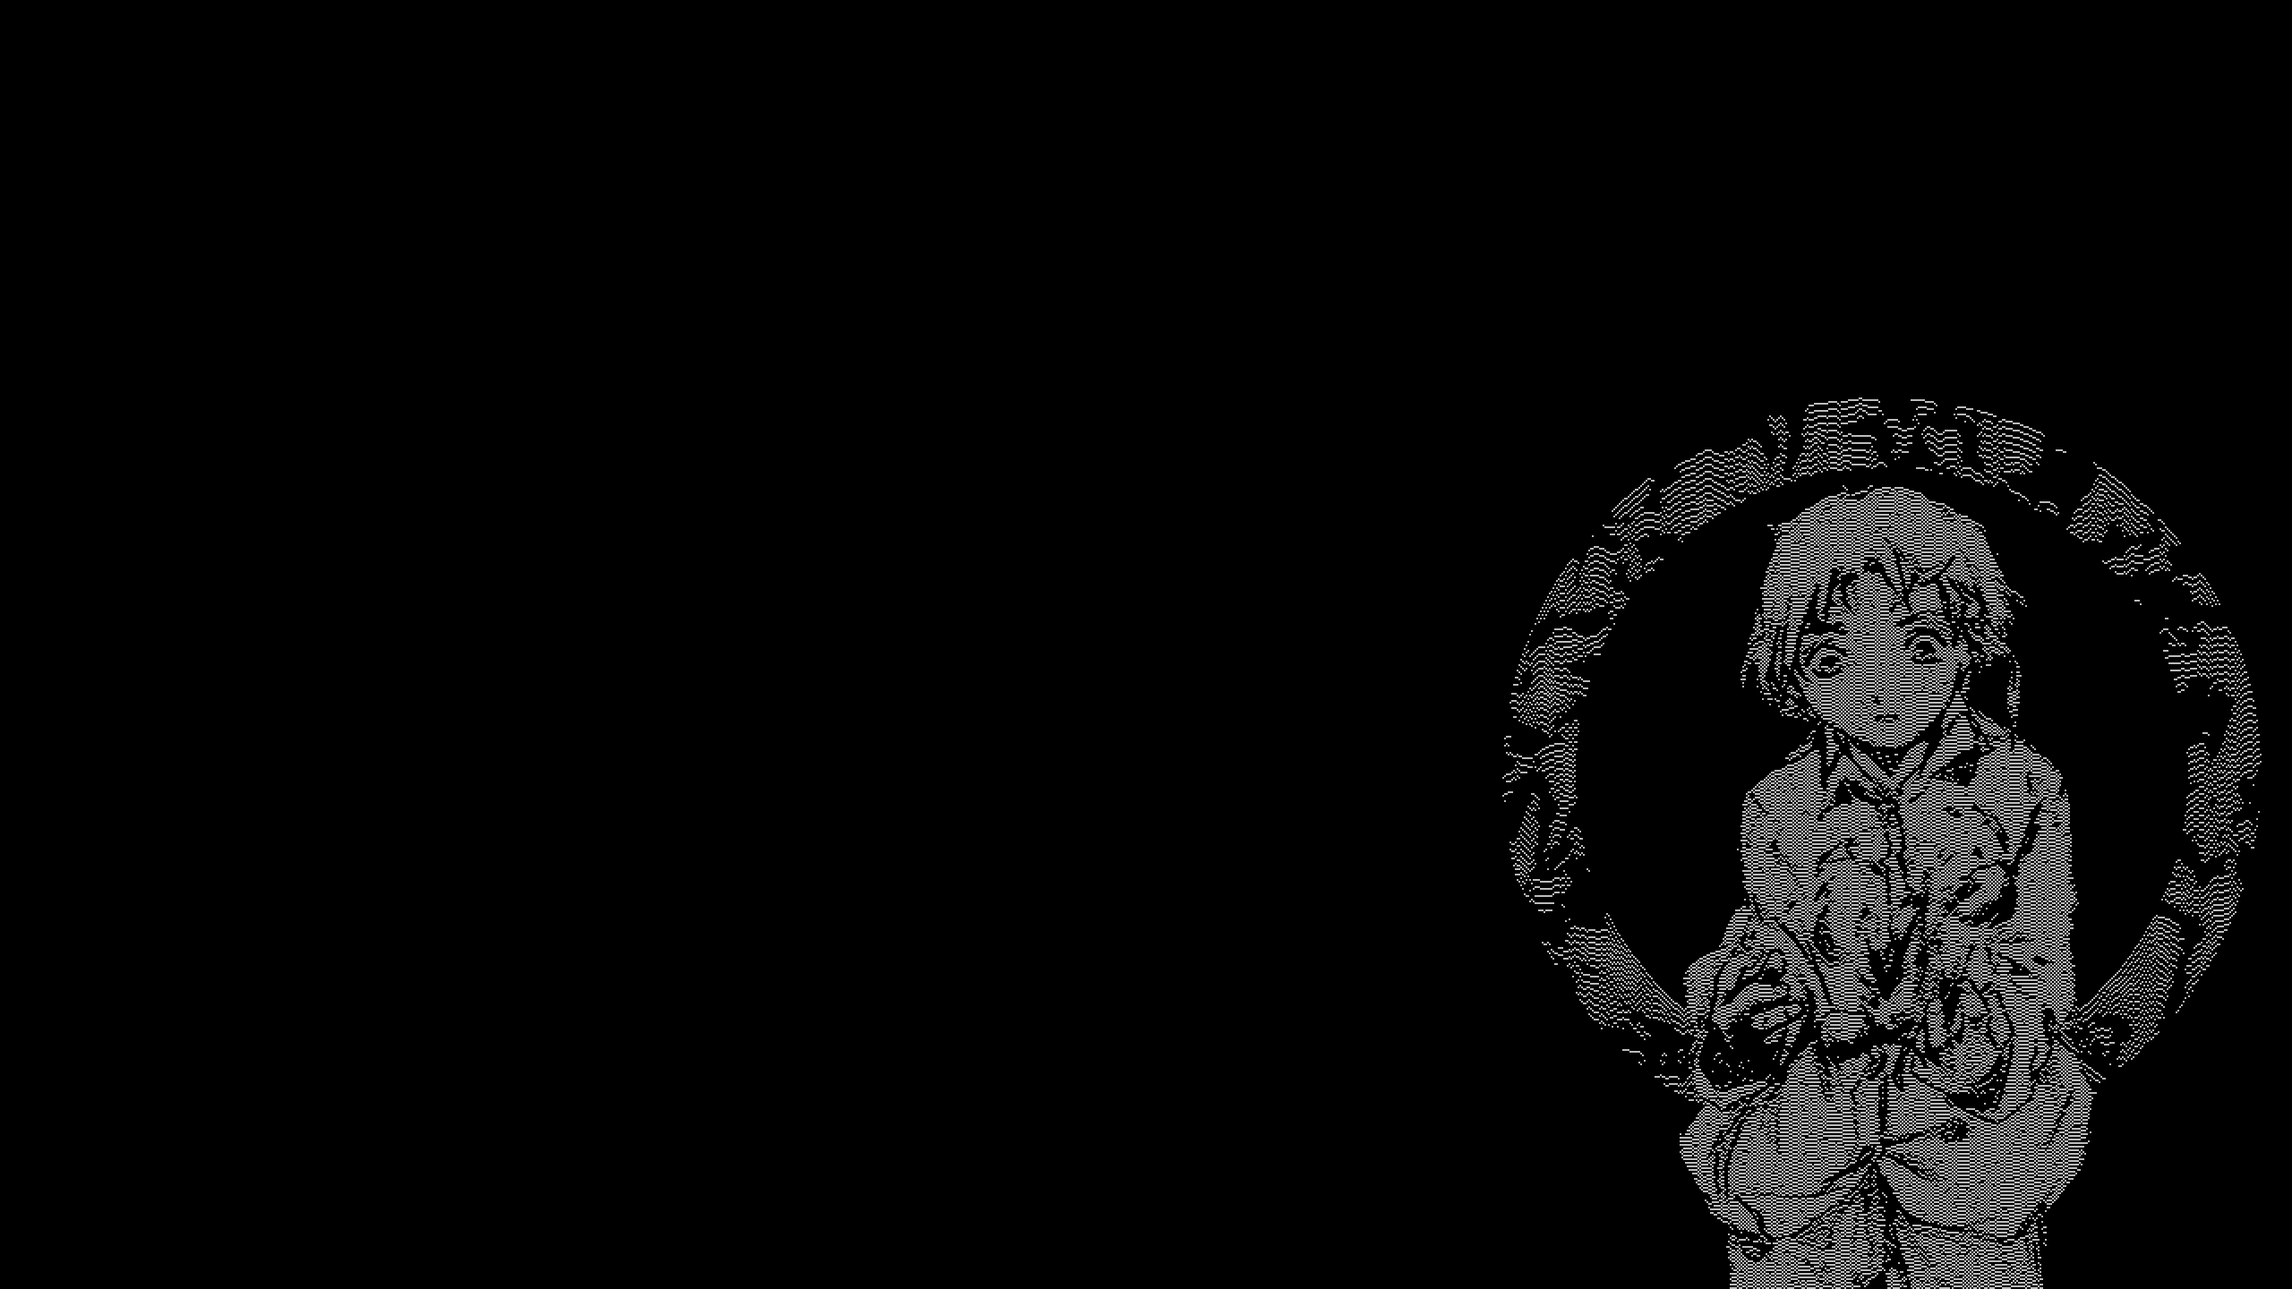
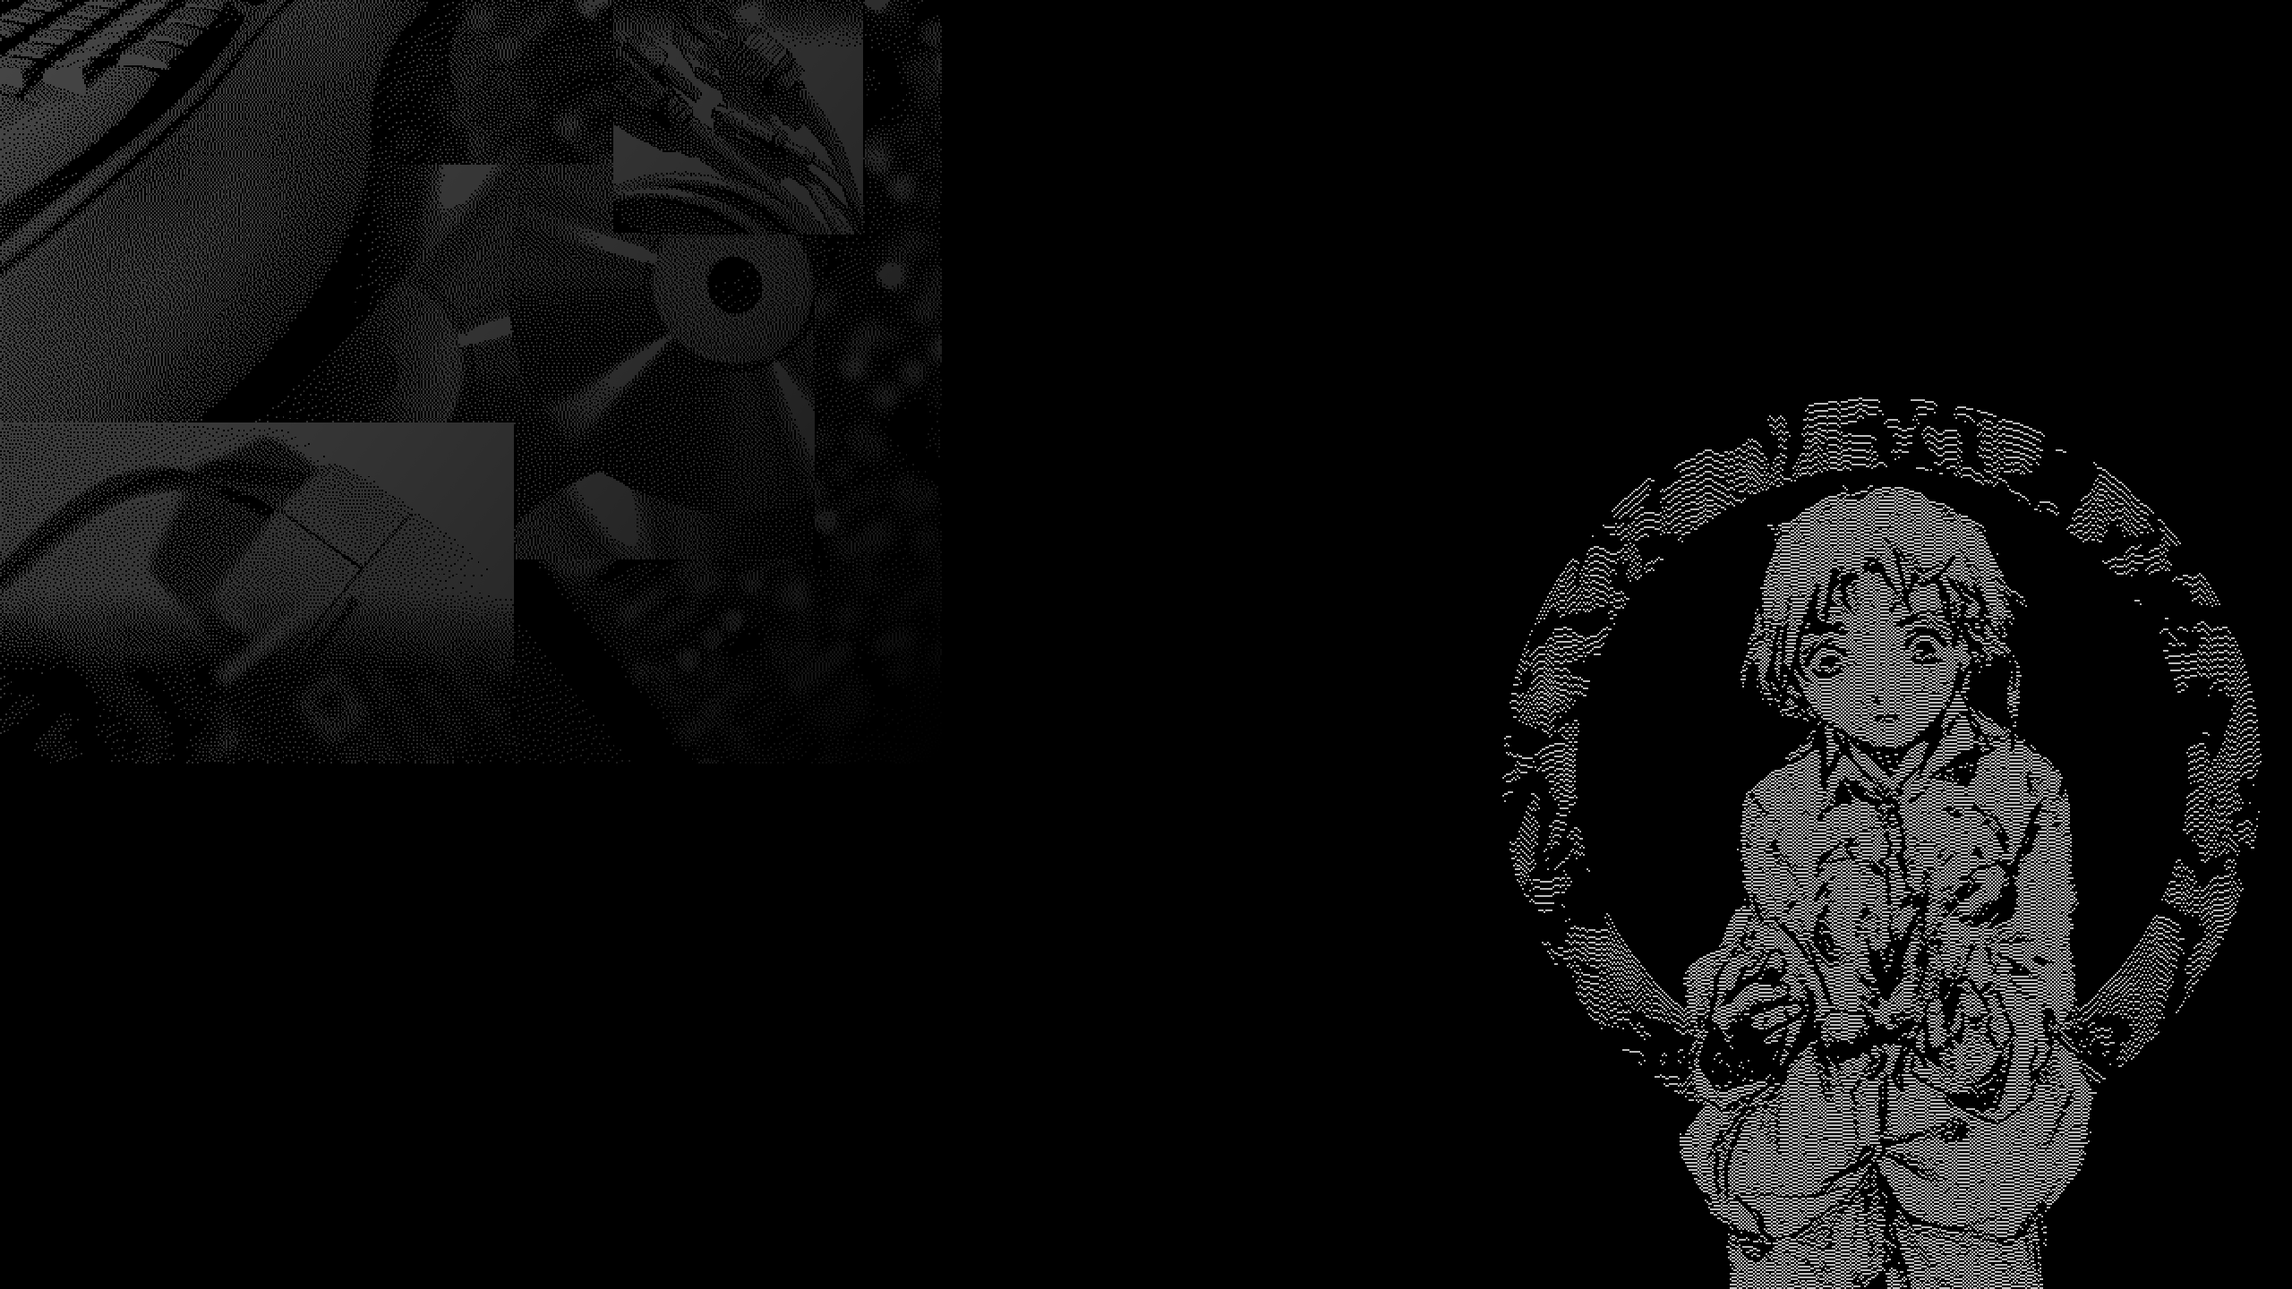
some changes...

Changed region(s): [[0.0, 0.0, 0.4062, 0.5938]]

diff --git a/others/links.html b/others/links.html
@@ -3,45 +3,37 @@
 <head>
 <title>HexyHack's website</title>
 <meta charset="UTF-8">
-<meta http-equiv="X-UA-Compatible" >
-<link href="../logopfp.png" rel="shortcut icon" type="image/x-icon">
+<meta http-equiv="X-UA-Compatible">
+<link href="logopfp.png" rel="shortcut icon" type="image/x-icon">
 <meta name="viewport" content="width=device-width, initial-scale=1">
 <link rel="stylesheet" href="../style.css" type="text/css">
 </head>
 <body>  
 <div class="main">
-    <img style="border: 2px double; text-align: left" src="../logopfp.png"  width= 100px>   
         <div style="height: 30px">
             <span class="r">Hex</span><span class="g">yH</span><span class="b">ack</span>
         </div>
-    <div style="height: 75px">
+    <div style="height: 50px">
         <table class="menu" > 
             <tr> 
                 <td><a href="../index.html">Home</a></td>
                 <td><a href="../entries/list_entries.html">Blog</a></td> 
-                <td><a href="links.html">Useful Links</a></td> 
-                <td><a href="projects.html">Projects</a></td>             </tr>
+                <td><a href="links.html">Links</a></td> 
+                <td><a href="projects.html">Projects</a></td> 
+                <td><a href="aboutme.html">About</a></td>
+            </tr>
         </table>
         <hr width="150px">
 </div>
 </div>
-<a href="xp.html"><img src="img/xp.png" width="15px"> Windows XP Software List</a>
-<div style="height: 22px"></div>
-<hr width="150px">
+<div style="height: 10px"></div>
+Some random stuff I found on web, enjoy ;p <br> <br>
 <a href="https://www.youtube.com/playlist?list=PLVXAMdNCJZDgyrvDC2kw3vCSEMvAQVbBN">> Renders in Shapes Wallpaper Tutorials - YT</a> <br>
-<!-- <a href="https://konachan.net/">> Konachan (G) - Anime wallpapers imageboard</a> <br> https://wallhaven.cc/-->
-<!-- https://archive.org/details/adobe-flash-player-projector -->
 <a href="https://github.com/bogd/esp32-morphing-clock">> ESP32 Morphing Clock - Github</a> <br>
-<a href="https://mirrors.dtops.co/ISO/MacOS/">> Drive full of MacOS DMGs with Clover bootloader included</a> <br>
-<a href="https://github.com/grassmunk/Platinum9">> Nice Mac OS 9 theme for XFCE - Github</a> <br>
+<a href="https://mirrors.dtops.co/ISO/MacOS/">> Drive full of MacOS DMGs with Clover included</a> <br>
 <a href="https://archive.org/details/@karol_437">> Archive.org account with many gaming magazine disks </a> <br>
 <a href="https://winraid.level1techs.com/t/solution-win-7-win8-1-x64-ryzen-apu-video-driver/34203">> Unofficial Ryzen APU 2xxx drivers for Win7 </a> <br>
 <a href="https://forums.macrumors.com/threads/the-tiger-thread-mac-os-x-10-4.2134451/">> Useful thread about Mac OS X Tiger and software for that </a> <br>
 <a href="https://github.com/otya128/winevdm">> WineVDM - Tool for running 16-bit Windows applications </a> <br>
-<a href="https://github.com/blueboxd/chromium-legacy">> Chromium-legacy - Latest Chrome for unsupported MacOS versions </a> <br>
 <a href="https://www.xpforums.com/threads/guide-to-enable-windows-xp-to-use-more-than-3-25gb-ram.932418/">> Make Windows XP to use more than 3.25GB of RAM </a> <br>
-<a href="https://www.youtube.com/watch?v=53LxDO3I2fg">> How to install Discord (web-based) on Windows XP - Tutorial</a> <br>
-<a href="https://anonfiles.com/x8V56a6czb/uBar_4_2_0_dmg">> Windows Taskbar app for MacOS</a> <br>
-<a href="https://anonfiles.com/Eco5r170z6/MinecraftSP_jar">> AnjoCaido Launcher - Jar version</a> <br>
-<a href="gta-3-car-pack.txt">> GTA3 Car Mods list (in GTA3 style)</a> <br>
 <a href="https://superuser.com/questions/184136/winxp-expand-a-wallpaper-without-affecting-its-aspect-ratio/184138#184138">> How to expand a wallpaper without disorting its aspect ratio on Windows XP</a> <br>

diff --git a/others/xp.html b/others/xp.html
@@ -3,25 +3,24 @@
 <head>
 <title>HexyHack's website</title>
 <meta charset="UTF-8">
-<meta http-equiv="X-UA-Compatible" >
-<link href="../logopfp.png" rel="shortcut icon" type="image/x-icon">
+<meta http-equiv="X-UA-Compatible">
+<link href="logopfp.png" rel="shortcut icon" type="image/x-icon">
 <meta name="viewport" content="width=device-width, initial-scale=1">
 <link rel="stylesheet" href="../style.css" type="text/css">
 </head>
 <body>  
 <div class="main">
-    <img style="border: 2px double; text-align: left" src="img/windows10-windows.gif"  width= 100px height= 100px>   
         <div style="height: 30px">
             <span class="r">Hex</span><span class="g">yH</span><span class="b">ack</span>
         </div>
-    <div style="height: 75px">
+    <div style="height: 50px">
         <table class="menu" > 
             <tr> 
                 <td><a href="../index.html">Home</a></td>
                 <td><a href="../entries/list_entries.html">Blog</a></td> 
-                <td><a href="links.html">Useful Links</a></td> 
+                <td><a href="links.html">Links</a></td> 
                 <td><a href="projects.html">Projects</a></td> 
-                <td><a href="thinkpads.html">ThinkPads</a></td>
+                <td><a href="aboutme.html">About</a></td>
             </tr>
         </table>
         <hr width="150px">
@@ -29,9 +28,8 @@
 </div>
 <a href="links.html"> < Back</a>
 <h1><img src="img/xp.png" width="30px"> Windows XP Software List</h1> <br>
-(actual for 08.2023) <br><br>
 <div style="width: 550px">
-The links uploaded here are providing to real application developer sites or to archived versions of them, so I'm not trying to provide bs here. <br> <br> Only 360Chrome and Tor Browser are uploaded to external hosting, but I've provided links to original threads about these apps. <br> <br> I don't think I gonna update this list frequently since there is much, much bigger one. Also I created this for myself kinda, so if I will fine some interesting apps I will upload here. Also maybe I will add some app descriptions in the future. <br>
+The links uploaded here are providing to real application developer sites or to archived versions of them. Only 360Chrome and Tor Browser are uploaded to external hosting, but I've provided links to original threads about these apps. <br> <br> I don't think I gonna update this list frequently since there is much, much bigger one. Also I created this for myself kinda, so if I will fine some interesting apps I will upload here. Also maybe I will add some app descriptions in the future. <br>
 <br> UPDATE (27.08.23): Some links need to be updated, since anonfiles announced the closure of their service recently :(
 </div>
 <div style="height: 22px"></div>

diff --git a/entries/entries.html b/entries/entries.html
@@ -8,30 +8,9 @@
 <meta name="viewport" content="width=device-width, initial-scale=1">
 <link rel="stylesheet" href="blog.css" type="text/css">
 </head>
-<body>  
+<body style="background-image:url(../bg2.png) ">  
 <div style="width: 500px; text-align: left;" >  
     <div style="height: 9px; background-color: darkblue;"></div> 
-<!--Entry--><p class="entry" id="29/08/23">mSATA to USB Adapter - Pros and Cons (29/08/23)</p>
-Welcome to third entry.<br> <br>
-<img src="img/msata.jpg" width="175px"> <br>
-Pros:<br>
--you can reuse your old msata disk<br>
--rw speeds are better than on average cheap pendrive <br>
--you can swap between other disks if you have more than one<br> <br>
-
-Cons:<br> 
--buying an adapter and disk only for this purpose is not a good idea since you can buy a new better pendrive for the same price<br>
--if your adapter doesnt have an enclosure you have to make one (working disk can be really hot) <br>
--bigger than average pendrive <br>
-<br> <br> Thank you for reading.
-<!--Entry--><p class="entry" id="03/08/23">I've made a software list for WinXP. (03/08/23)</p>
-Welcome to second entry on my blog.<br> 
-I just uploaded a list of bunch applications for Windows XP. I came up with an idea of doing it when I was installing XP on my laptop, just for sharing the knowlegdge with people. And yeah, there is already one website containing tons of applications for XP, but that website of course doesn't contain every app, right?
-<br> So, there is my list which you can <a href="../../others/xp.html"> check yourself</a>. For now the list contains 18 apps, maybe will be more in the future, but I won't promise.
-<br> <br> Recently I've updated my whole "Useful Links" page, where you can find some random IT stuff, basically same idea as the XP list.
-<br> <br> And.. If it comes to my blog, I will post another entry soon, probably something about old disks.
-<br> <br> See ya!
-<br> <br> <a href="../../others/xp.html">Link to XP list</a>
 <!--Entry--><p class="entry" id="19/07/23">First entry - the beginning (17/07/23)</p>
 Welcome to my blog page.<br> <br>
 I came up with an idea of creating this site due to boredom and my willing to create some space where I could communicate, share my projects, ideas and etc.

diff --git a/entries/list_entries.html b/entries/list_entries.html
@@ -3,25 +3,24 @@
 <head>
 <title>HexyHack's website</title>
 <meta charset="UTF-8">
-<meta http-equiv="X-UA-Compatible" >
-<link href="../logopfp.png" rel="shortcut icon" type="image/x-icon">
+<meta http-equiv="X-UA-Compatible">
+<link href="logopfp.png" rel="shortcut icon" type="image/x-icon">
 <meta name="viewport" content="width=device-width, initial-scale=1">
-<link rel="stylesheet" href="main_style.css" type="text/css">
+<link rel="stylesheet" href="../style.css" type="text/css">
 </head>
 <body>  
 <div class="main">
-    <img style="border: 2px double; text-align: left" src="../logopfp.png"  width= 100px>   
         <div style="height: 30px">
             <span class="r">Hex</span><span class="g">yH</span><span class="b">ack</span>
         </div>
-    <div style="height: 65px">
+    <div style="height: 50px">
         <table class="menu" > 
             <tr> 
                 <td><a href="../index.html">Home</a></td>
                 <td><a href="list_entries.html">Blog</a></td> 
-                <td><a href="../others/links.html">Useful Links</a></td> 
+                <td><a href="../others/links.html">Links</a></td> 
                 <td><a href="../others/projects.html">Projects</a></td> 
-                <td><a href="../others/thinkpads.html">ThinkPads</a></td>
+                <td><a href="../others/aboutme.html">About</a></td>
             </tr>
         </table>
         <hr width="150px">
@@ -33,11 +32,10 @@ Blog feed <br> <br>
     <br>
     <hr width="150px">
     My entries: <br> <br>
-<div class="navi"style="background-color: black; width: 100%; height: 225px">
+<div class="navi"style="background-image:url(../bg2.png); border: 3px ridge rgb(250,250,250); width: 100%; height: 225px">
  <b style="font-size: 17px; color:rgb(0, 131, 20)">-</b>
  <ul>
-     <li><a href="entries.html#29/08/23" target="entryframe">mSATA to USB Adapter - Pros and Cons (29/08/23)</a></li>
-     <li><a href="entries.html#03/08/23" target="entryframe">I've made Windows XP Software List (03/08/23)</a></li>
+
      <li><a href="entries.html#19/07/23" target="entryframe">First entry (19/07/23)</a></li>
  </ul>
 </div>

diff --git a/others/aboutme.html b/others/aboutme.html
@@ -3,27 +3,33 @@
 <head>
 <title>HexyHack's website</title>
 <meta charset="UTF-8">
-<link href="../logopfp.png" rel="shortcut icon" type="image/x-icon">
-<meta http-equiv="X-UA-Compatible" content="IE=edge">
+<meta http-equiv="X-UA-Compatible">
+<link href="logopfp.png" rel="shortcut icon" type="image/x-icon">
 <meta name="viewport" content="width=device-width, initial-scale=1">
 <link rel="stylesheet" href="../style.css" type="text/css">
 </head>
 <body>  
 <div class="main">
-    <img style="border: 2px double; text-align: left" src="../logopfp.png"  width= 100px>   
         <div style="height: 30px">
             <span class="r">Hex</span><span class="g">yH</span><span class="b">ack</span>
         </div>
-    <div style="height: 75px">
+    <div style="height: 50px">
         <table class="menu" > 
             <tr> 
-                <td><a href="../home.html">Home</a></td>
+                <td><a href="../index.html">Home</a></td>
                 <td><a href="../entries/list_entries.html">Blog</a></td> 
-                <td><a href="links.html">Useful Links</a></td> 
+                <td><a href="links.html">Links</a></td> 
                 <td><a href="projects.html">Projects</a></td> 
-               
+                <td><a href="aboutme.html">About</a></td>
             </tr>
         </table>
         <hr width="150px">
 </div>
 </div>
+<h1>About me</h1>
+<br> 
+This site leads some 20yo guy from Eastern Europe, <br> who loves computers, messing around with hardware, <br> software or graphics, trying to find his path in life. <br> Occasionaly I'm watching anime (my favourites are Raildex and GuP) <br> or doing amateur photography.
+Also, I have cringe sense of humor. <br> <br>
+<img src="../img/feel2.png" width="150px">
+<br> <br> I hope you will find posted content here interesting ;) 
+[

diff --git a/index.html b/index.html
@@ -18,19 +18,21 @@
             <tr> 
                 <td><a href="index.html">Home</a></td>
                 <td><a href="entries/list_entries.html">Blog</a></td> 
-                <td><a href="others/links.html">Useful Links</a></td> 
+                <td><a href="others/links.html">Links</a></td> 
                 <td><a href="others/projects.html">Projects</a></td> 
+                <td><a href="others/aboutme.html">About</a></td>
             </tr>
         </table>
         <hr width="150px">
 </div>
 </div>
 <h1>Welcome to my website!</h1>
-This is place where you will find tech-related stuff, mainly about computers, <br> operating systems and other stuff I will find interesting. <br> Currently I would recommend you to browse this <br> website on PC, on phone website doesn't display correctly. <br>
-I hope you won't get mad for my not-the-best English proficiency, thanks. <br> Also I hope you will find posted content here interesting ;) 
+This is place where you will find tech-related stuff, mainly about PCs, <br> operating systems and other stuff I will find interesting. <br> <br>
+<img src="img/feel.png" width="125px">
+<br> <br> 
 <h2>Most interesting posts:</h2>
-<a href="others/xp.html"><img src="others/img/xp.png" width="15px"> Windows XP Software List</a> <br>
-<a href="others/middleton.html"><img src="others/img/ibmlogo.png" width="20px" height="20px">Middleton's collection of BIOS images</a> <br>
+<li><a href="others/xp.html">Windows XP Software List</a> </li>
+<li><a href="entries/entries.html#19/07/23" target="entryframe">First entry (19/07/23)</a></li> 
 <div style="height: 20px"></div>
  Profiles: <br> 
  <div style="height: 5px"></div>  

diff --git a/others/projects.html b/others/projects.html
@@ -4,28 +4,31 @@
 <title>HexyHack's website</title>
 <meta charset="UTF-8">
 <meta http-equiv="X-UA-Compatible">
-<link href="../logopfp.png" rel="shortcut icon" type="image/x-icon">
+<link href="logopfp.png" rel="shortcut icon" type="image/x-icon">
 <meta name="viewport" content="width=device-width, initial-scale=1">
 <link rel="stylesheet" href="../style.css" type="text/css">
 </head>
 <body>  
 <div class="main">
-    <img style="border: 2px double; text-align: left" src="../logopfp.png"  width= 100px>   
         <div style="height: 30px">
             <span class="r">Hex</span><span class="g">yH</span><span class="b">ack</span>
         </div>
-    <div style="height: 75px">
+    <div style="height: 50px">
         <table class="menu" > 
             <tr> 
                 <td><a href="../index.html">Home</a></td>
                 <td><a href="../entries/list_entries.html">Blog</a></td> 
-                <td><a href="links.html">Useful Links</a></td> 
+                <td><a href="links.html">Links</a></td> 
                 <td><a href="projects.html">Projects</a></td> 
+                <td><a href="aboutme.html">About</a></td>
             </tr>
         </table>
         <hr width="150px">
 </div>
 </div>
+<h1><img src="img/xp.png" width="30px"> Windows XP Software List</h1>
+[Bunch of XP Apps and Addons] <br>
+<a href="xp.html">> Check it out!</a> <br>
 <h1>My own homepage</h1>
 [Made with JS] <br>
 <a href="https://hexyhack.github.io/homepage/">> Check it out!</a> <br>

diff --git a/style.css b/style.css
@@ -4,7 +4,9 @@ body { color:white;
     background-position: center;
     background-size: cover; 
     font-family:monospace; 
-    font-weight: 500; }
+    font-weight: 500; 
+    background-repeat: no-repeat;
+    background-attachment: fixed;}
 
 html {
         color: white;
